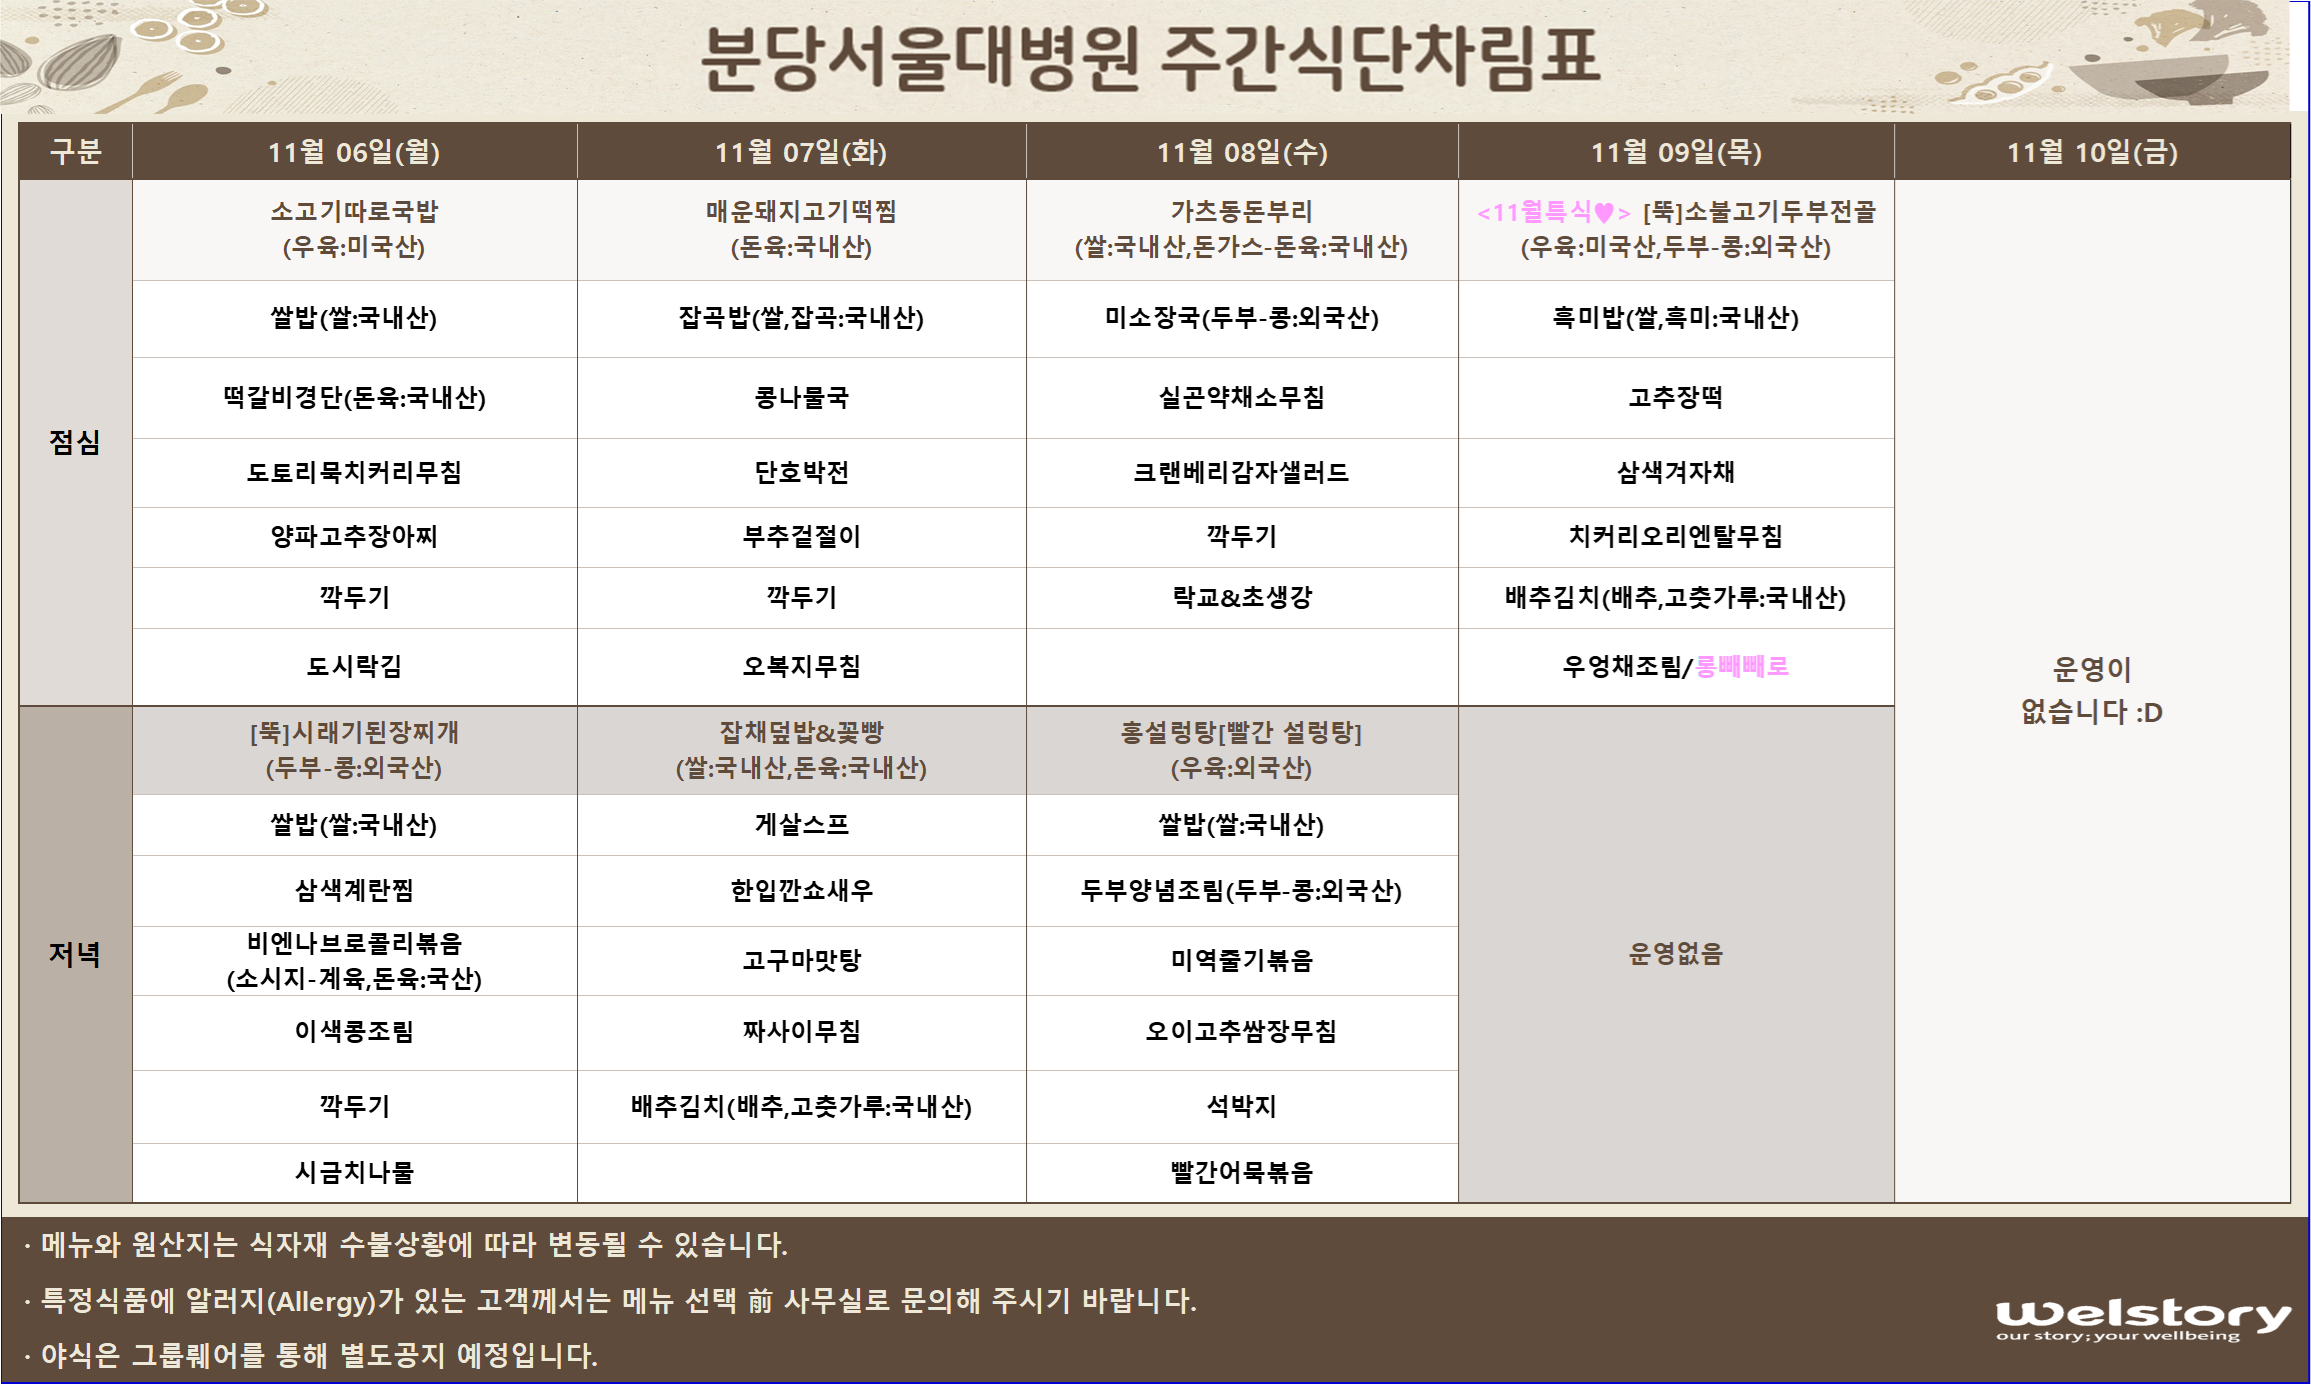
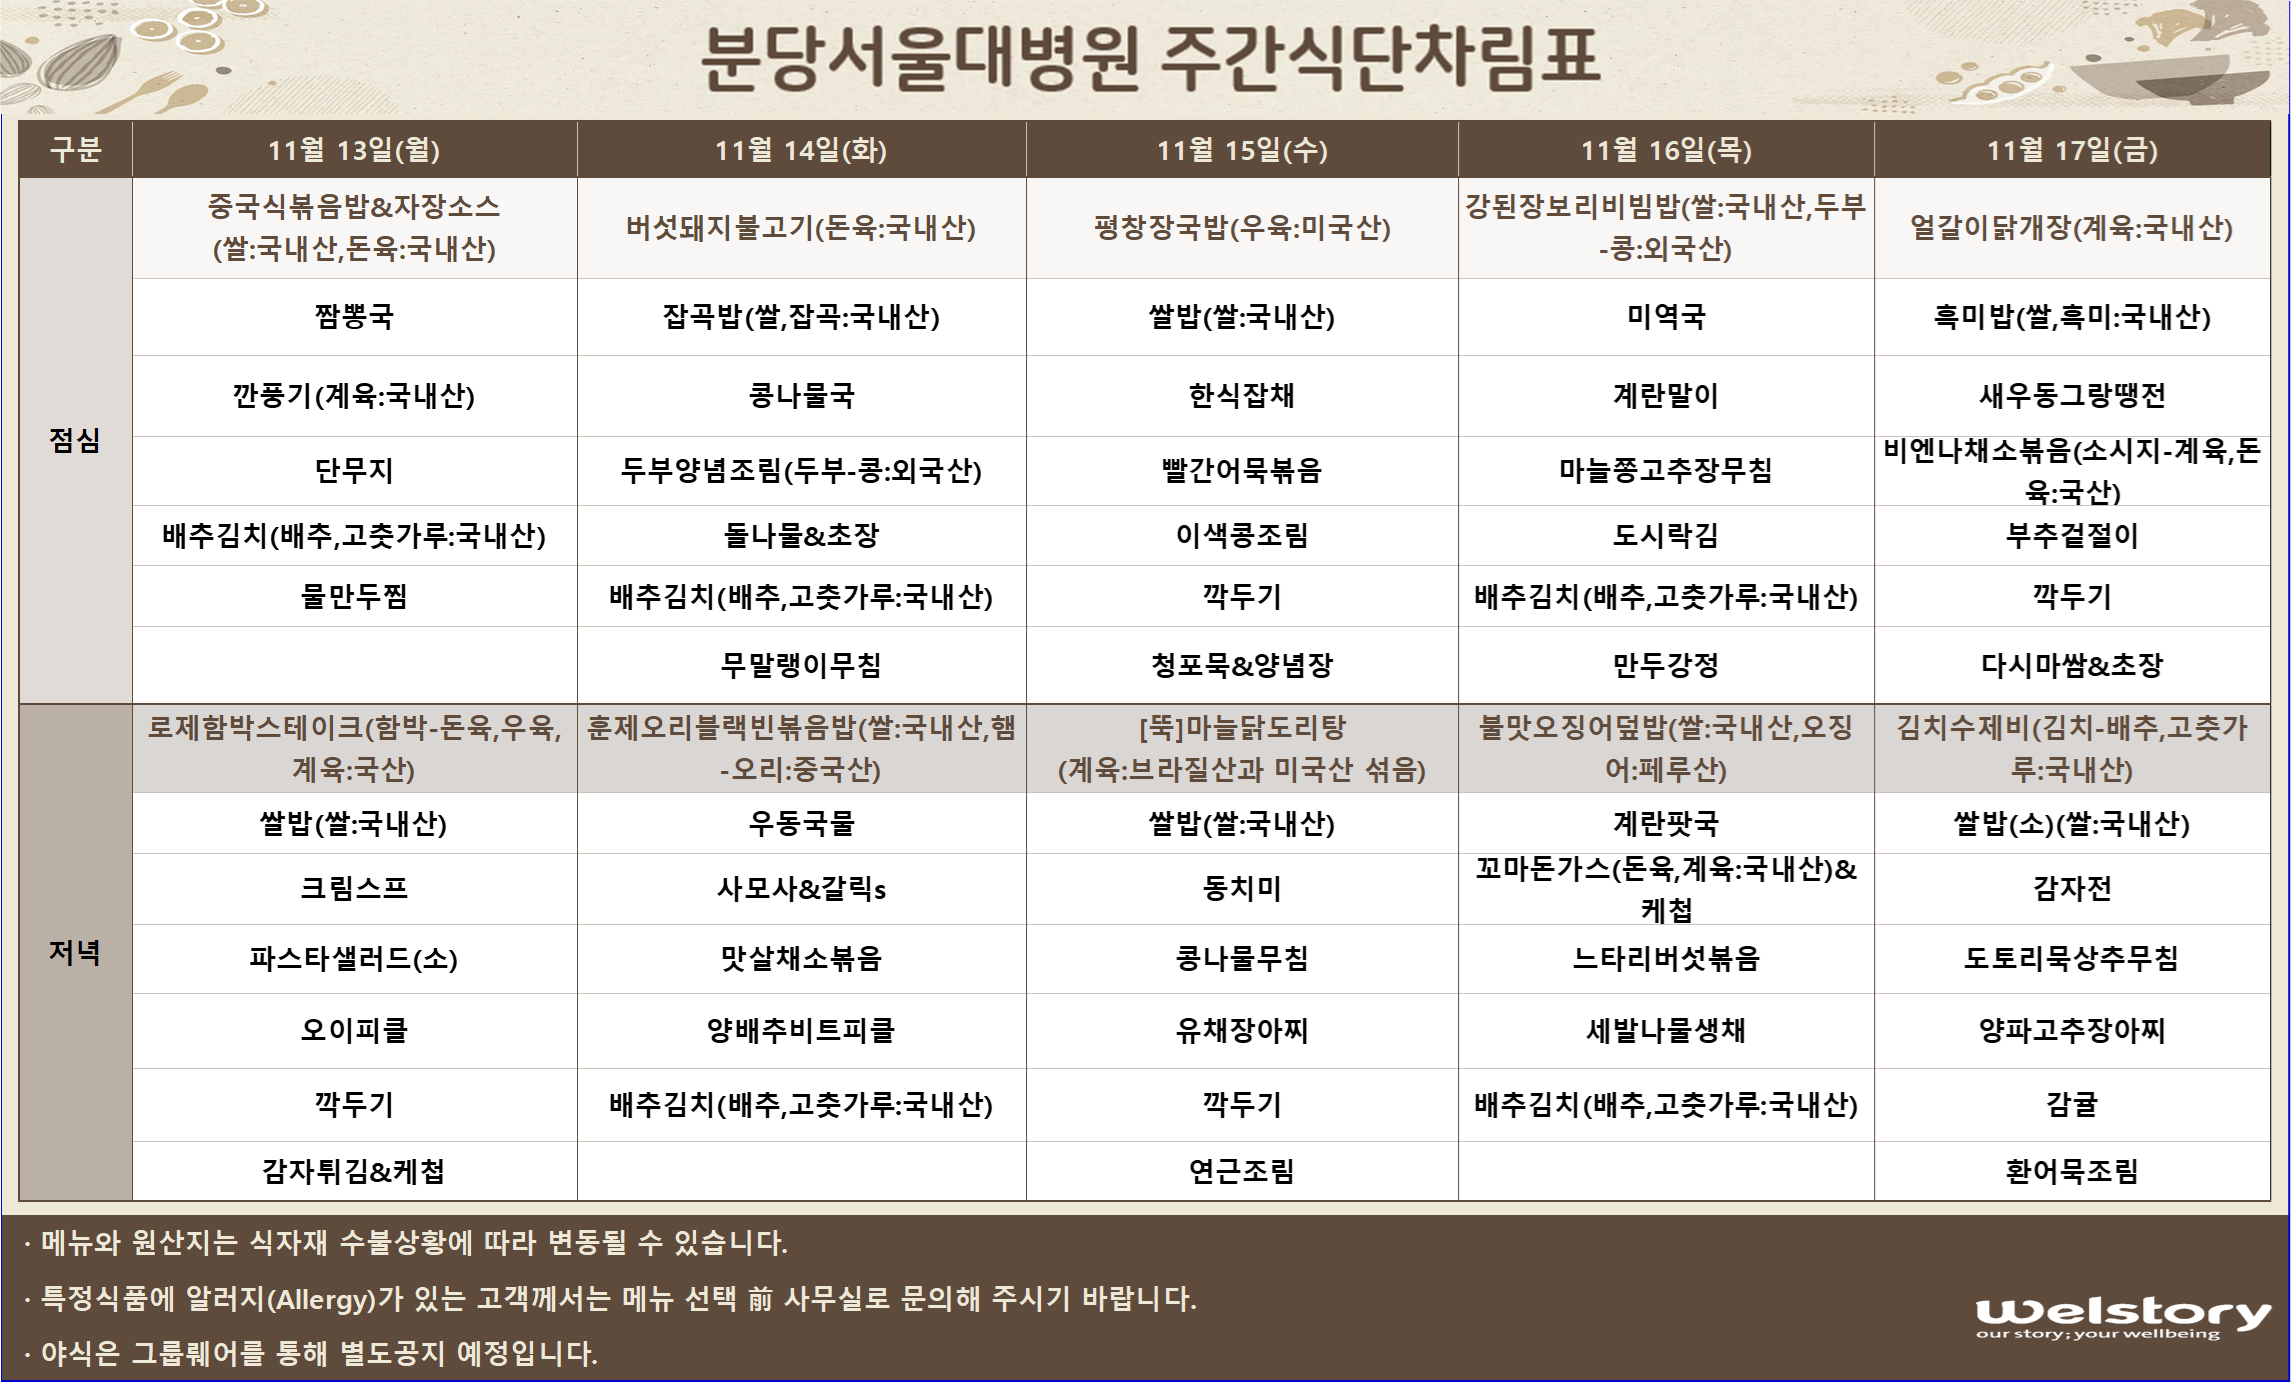
Add files via upload

diff --git a/6/index.html b/6/index.html
@@ -12,10 +12,10 @@
 <h2> 메뉴 업데이트는 주인장 여유가 되면 합니다. (이미지 확대해서 보세요) <br> </h2>
 
 <br>
-<h1> 11월 1주차 </h1>
+<h1> 11월 2주차 </h1>
 <img src="수술.png" width="100%">
 
-<h6> Last update 2023/11/06  </h6>  
+<h6> Last update 2023/11/13  </h6>  
 <h1 >맛있게 드세요.  </h1> 
 
 </body>

diff --git a/1/index.html b/1/index.html
@@ -13,11 +13,11 @@
 
 
 <br>
-<h1> 11월 1주차  </h1>
+<h1> 11월 2주차  </h1>
 <img src="1동.png" width="100%">
 
 
-<h6> Last update 2023/11/06  </h6>  
+<h6> Last update 2023/11/13  </h6>  
 <h1 >맛있게 드세요.  </h1> 
 
 </body>

diff --git a/2/index.html b/2/index.html
@@ -14,11 +14,11 @@
 
 
 <br>
-<h1> 11월 1주차  </h1>
+<h1> 11월 2주차  </h1>
 <img src="HIP.png" width="50%">
 
 
-<h6> Last update 2023/11/06  </h6>  
+<h6> Last update 2023/11/13  </h6>  
 <h1 >맛있게 드세요.  </h1>  
  
 </body>
